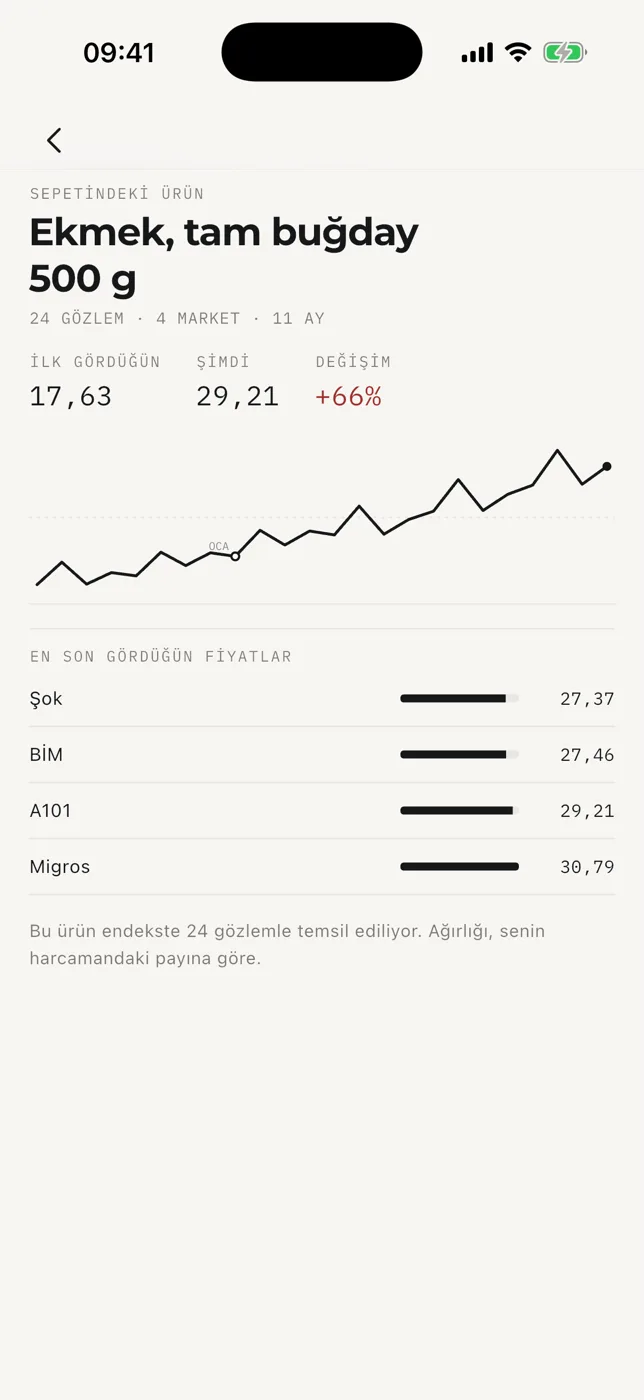
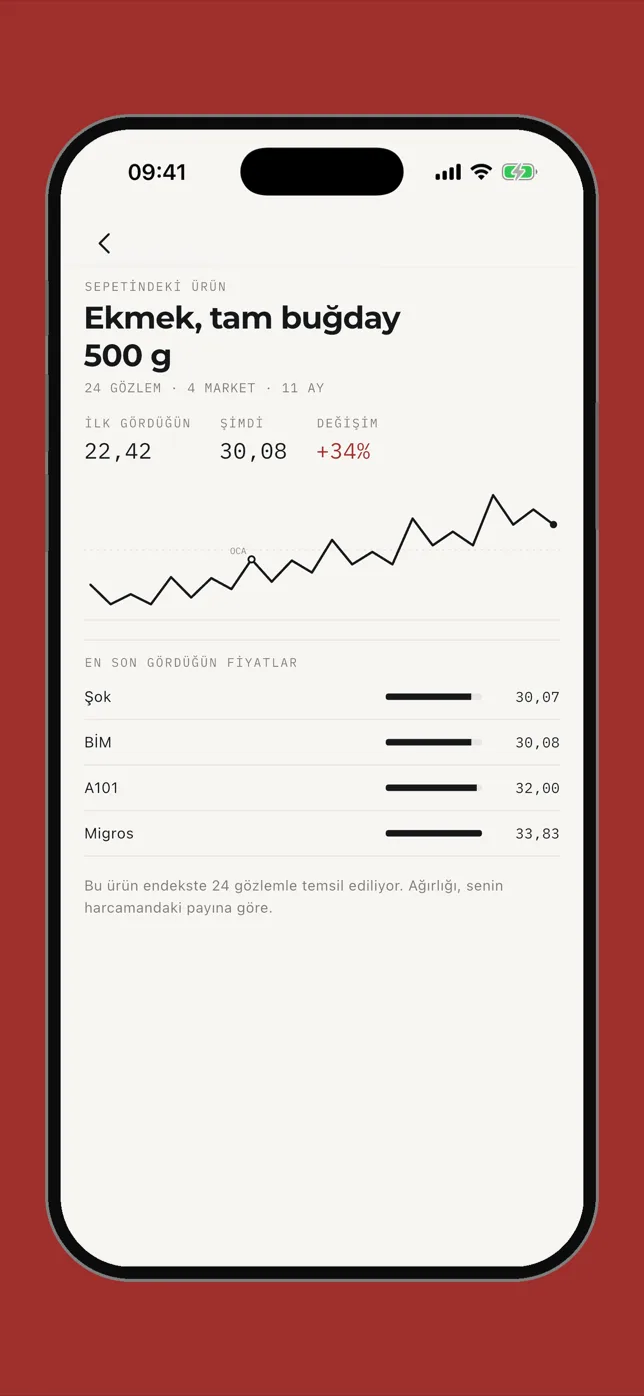
chore: Sepet gorsellerini ve vaka calismasini repodaki guncel haliyle yenile
- assets/sepet_1..5.webp: repo docs/screenshots/store'daki yeni magaza
  gorselleriyle degistirildi (endeks, fis, kirilim, urun gecmisi, aylik kart)
- ucuncu slayt eslesme ekrani yerine kategori/marka kirilimi oldu
- ENAG artik projede yok: karsilastirma serisi yalnizca TUIK, TCMB EVDS
  API'si uzerinden cekiliyor
- Laspeyres endeksi backend kodundan PostgreSQL fonksiyonlarina tasinmis,
  vaka calismasi buna gore guncellendi
- eslesme maddesi guncel davranisla degistirildi (marka/urun bulanik
  eslestirmeyle cozuluyor, yalnizca boy sorusu kullaniciya soruluyor)

diff --git a/script.js b/script.js
@@ -353,14 +353,16 @@ document.addEventListener("DOMContentLoaded", function () {
       en: {
         kicker: "Mobile App · On-Device OCR + AI",
         overview:
-          "Official inflation measures the price change of one fixed basket meant to represent a whole country — but nobody actually buys that basket. Sepet reads your grocery receipts, builds a price index from the products you really buy, and puts it next to the official (TÜİK) and independent (ENAG) series without interpreting either. Built solo: product, design, Flutter client, the matching model and the backend it talks to.",
+          "Official inflation measures the price change of one fixed basket meant to represent a whole country — but nobody actually buys that basket. Sepet reads your grocery receipts, builds a price index from the products you really buy, and puts it next to the official TÜİK series without interpreting it. Built solo: product, design, Flutter client, the matching model and the backend it talks to.",
         role: "Solo project: product decisions, design system, Flutter client, receipt normalization pipeline, Node.js/Express + PostgreSQL backend and the CI/release setup.",
         highlights: [
           "Core loop — scan, match, measure, share: photo → on-device OCR → editable draft → saved receipt → your 12-month index",
           "On-device OCR with Apple Vision: the receipt photo never leaves the phone, only matched lines are sent to the server",
-          "The heart of the app is the ambiguity case — when normalization cannot tell which canonical product a line means, it asks instead of guessing; a silent mismatch would corrupt the index invisibly",
+          "The heart of the app is the ambiguity case — the server resolves brand and product by fuzzy matching, but a receipt never says whether it was the 1 kg or the 3 kg, so the app asks instead of guessing and shows the unit price each option would feed into the index",
           "Claude is used as an ambiguity resolver only, not per line: confirmed matches are cached per market receipt format, so cost scales with uncertainty instead of with volume",
-          "Laspeyres index computed backend-side over canonical products, aliases and price observations, compared against monthly TÜİK CPI and ENAG E-CPI series",
+          "Laspeyres index computed in PostgreSQL functions next to the data — four SQL stages in one transaction — over canonical products, aliases and price observations",
+          "Official TÜİK CPI pulled through the TCMB EVDS API — the machine-readable channel, since TÜİK's own portal is closed to automated access — refreshed at most once a month, with manual entry as a fallback when no key is set",
+          "Breakdown screen by category and brand, each series reweighted within its own set so the percentages never pretend to add up",
           "Two design layers: paper-receipt content (serif headings, monospace numbers, colour spent only on price hikes) under an iOS 26 Liquid Glass chrome with a floating capsule tab bar",
           "Built for KVKK from the start: separate disclosure and explicit-consent screens per the Board's 2026/347 decision, optional permissions off by default, and a test that asserts no consent toggle exists on the disclosure screen",
           "Green main: protected branch, PR-only flow, squash merges, and CI running format, analyze --fatal-infos, tests with coverage plus Android and iOS builds; tagged releases publish APK + AAB",
@@ -370,14 +372,16 @@ document.addEventListener("DOMContentLoaded", function () {
       tr: {
         kicker: "Mobil Uygulama · Cihaz Üstü OCR + Yapay Zekâ",
         overview:
-          "Resmî enflasyon, bütün bir ülkeyi temsil etmesi beklenen sabit bir sepetin fiyat değişimini ölçüyor — ama kimse tam olarak o sepeti almıyor. Sepet, market fişlerini okuyup fiilen aldığın ürünlerden bir fiyat endeksi kuruyor ve bunu resmî (TÜİK) ile bağımsız (ENAG) serilerin yanına, hiçbirini yorumlamadan koyuyor. Ürün, tasarım, Flutter istemci, eşleştirme modeli ve konuştuğu backend bireysel olarak geliştirildi.",
+          "Resmî enflasyon, bütün bir ülkeyi temsil etmesi beklenen sabit bir sepetin fiyat değişimini ölçüyor — ama kimse tam olarak o sepeti almıyor. Sepet, market fişlerini okuyup fiilen aldığın ürünlerden bir fiyat endeksi kuruyor ve bunu resmî TÜİK serisinin yanına, yorumlamadan koyuyor. Ürün, tasarım, Flutter istemci, eşleştirme modeli ve konuştuğu backend bireysel olarak geliştirildi.",
         role: "Bireysel proje: ürün kararları, tasarım sistemi, Flutter istemci, fiş normalizasyon hattı, Node.js/Express + PostgreSQL backend ve CI/release kurulumu.",
         highlights: [
           "Çekirdek döngü — tara, eşle, ölç, paylaş: fotoğraf → cihaz üstünde OCR → düzeltilebilir taslak → kayıtlı fiş → 12 aylık kendi endeksin",
           "Apple Vision ile cihaz üstü OCR: fişin fotoğrafı telefondan çıkmıyor, sunucuya yalnızca eşleşmiş satırlar gidiyor",
-          "Uygulamanın kalbi belirsizlik durumu — normalizasyon bir satırın hangi kanonik ürüne gittiğini çözemediğinde tahmin etmiyor, soruyor; sessiz bir yanlış eşleşme endeksi kullanıcı fark etmeden bozardı",
+          "Uygulamanın kalbi belirsizlik durumu — marka ve ürünü sunucu bulanık eşleştirmeyle çözüyor, ama 1 kg mı 3 kg mı sorusunun cevabı fişte yazmıyor; uygulama orada tahmin etmiyor, soruyor ve her seçeneğin yanında endekse girecek birim fiyatı gösteriyor",
           "Claude satır başına değil, yalnızca belirsizlik çözücü olarak kullanılıyor: onaylanan eşleşmeler market fiş formatı bazında önbelleğe alınıyor, yani maliyet hacimle değil belirsizlikle ölçekleniyor",
-          "Kanonik ürünler, alias tablosu ve fiyat gözlemleri üzerinden backend'de hesaplanan Laspeyres endeksi; aylık TÜİK TÜFE ve ENAG E-TÜFE serileriyle karşılaştırılıyor",
+          "Laspeyres endeksi uygulama kodunda değil verinin yanında: kanonik ürünler, alias tablosu ve fiyat gözlemleri üzerinde tek işlemde çalışan dört PostgreSQL fonksiyonu",
+          "Resmî TÜİK TÜFE serisi TCMB EVDS API'si üzerinden çekiliyor — TÜİK'in kendi portalı otomatik erişime kapalı olduğu için makine okunur kanal bu; seri ayda en fazla bir kez tazeleniyor, anahtar yoksa aylar elle girilebiliyor",
+          "Kategori ve marka kırılımı ekranı: her seri kendi kümesinde yeniden ağırlıklandırılıyor, yani yüzdeler toplanıyormuş gibi yapmıyor",
           "İki tasarım katmanı: kâğıt fiş içeriği (serif başlıklar, monospace sayılar, rengin yalnızca zamlarda harcanması) ve üzerinde yüzen kapsül sekme çubuğuyla iOS 26 Liquid Glass kromu",
           "Baştan KVKK'ya göre kurgulandı: Kurul'un 2026/347 sayılı kararı gereği ayrı aydınlatma ve açık rıza ekranları, varsayılan kapalı isteğe bağlı izinler ve aydınlatma ekranında hiçbir onay anahtarı bulunmadığını doğrulayan bir test",
           "main her zaman yeşil: korumalı dal, yalnızca PR akışı, squash merge ve her PR'da format, analyze --fatal-infos, kapsamlı testler ile Android/iOS derlemelerini çalıştıran CI; etiketli sürümler APK + AAB yayınlıyor",

diff --git a/index.html b/index.html
@@ -657,7 +657,7 @@
           <div class="project-slider" id="sepet-slider">
             <img src="./assets/sepet_1.webp" class="project-slide active" alt="Sepet personal inflation index screen" loading="lazy" />
             <img src="./assets/sepet_2.webp" class="project-slide" alt="Sepet scanned receipt with parsed lines" loading="lazy" />
-            <img src="./assets/sepet_3.webp" class="project-slide" alt="Sepet match confirmation sheet" loading="lazy" />
+            <img src="./assets/sepet_3.webp" class="project-slide" alt="Sepet category and brand breakdown" loading="lazy" />
             <img src="./assets/sepet_4.webp" class="project-slide" alt="Sepet product price history" loading="lazy" />
             <img src="./assets/sepet_5.webp" class="project-slide" alt="Sepet shareable monthly card" loading="lazy" />
             <button class="slider-btn prev" type="button" aria-label="Previous screenshot">&#10094;</button>
